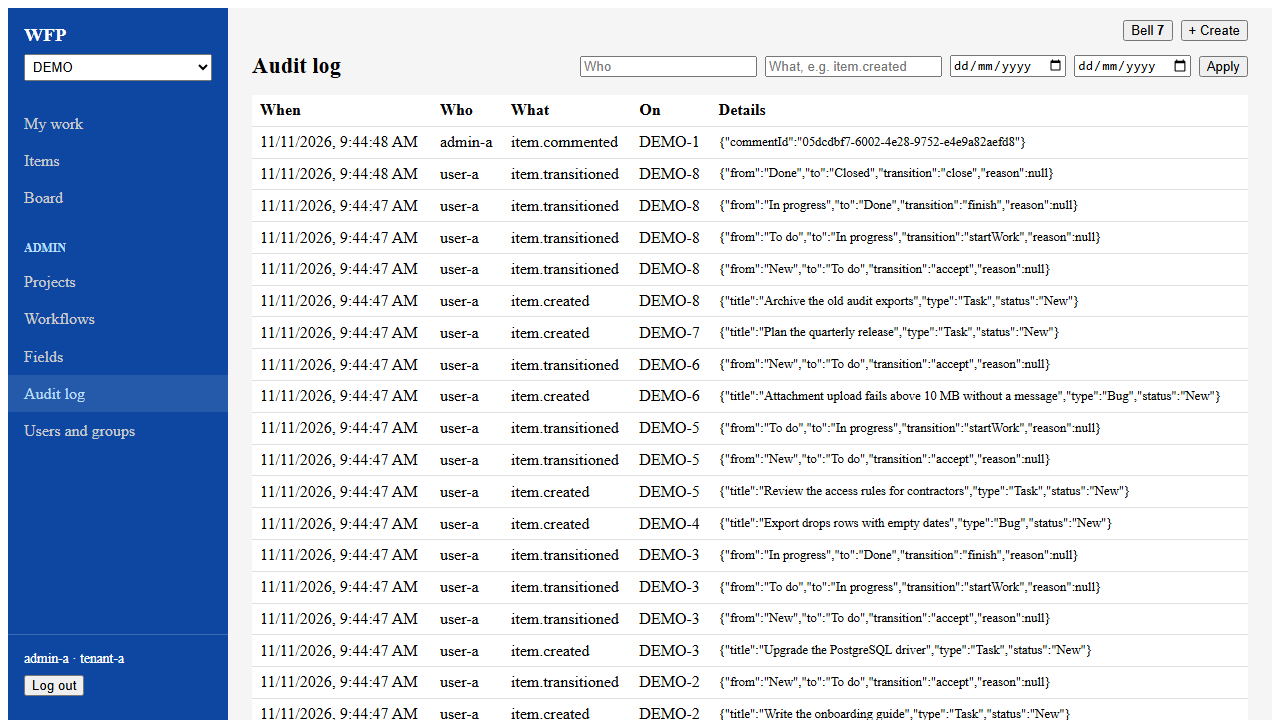
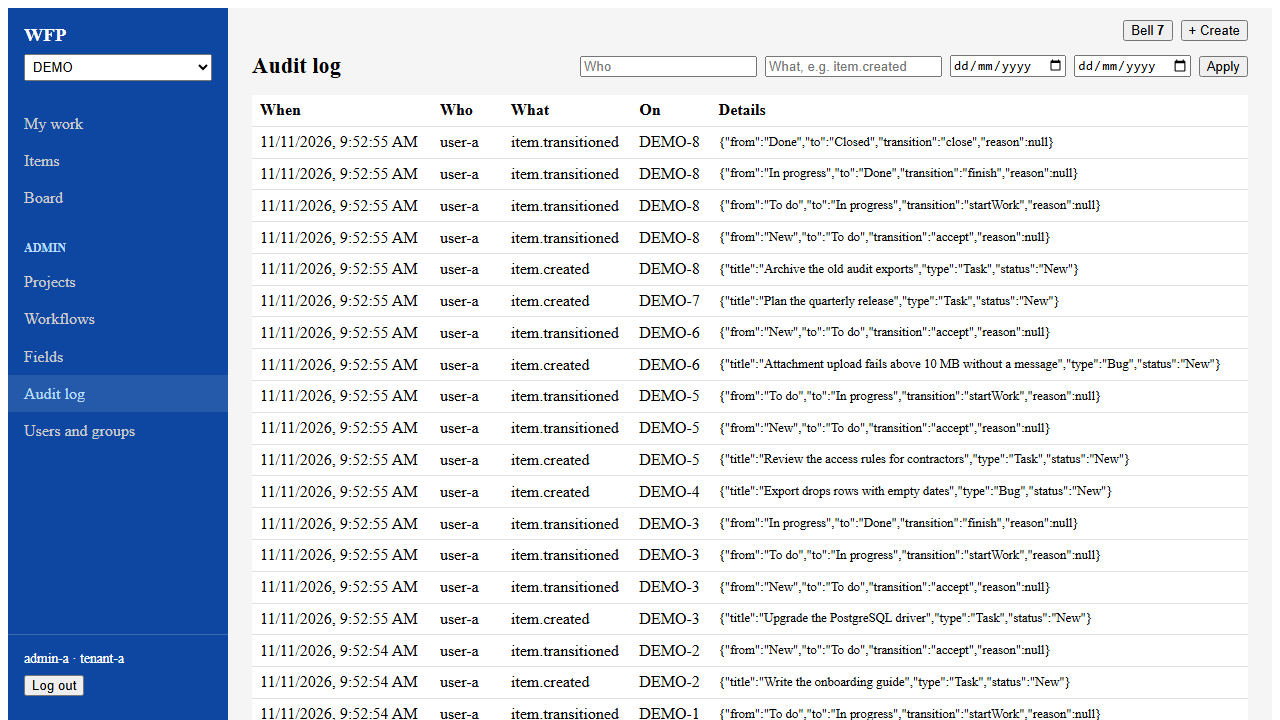
test(e2e): let a rerun finish demo data that stopped midway
Each step now checks for its own data (project, field, items by title)
instead of skipping everything once the project exists.

Claude-Session: https://claude.ai/code/session_01H6oLxLxcstwLfnykrvnywd

diff --git a/e2e/demo-data.setup.ts b/e2e/demo-data.setup.ts
@@ -8,7 +8,7 @@ const PROJECT = 'DEMO';
 const SAMPLE_WORKFLOW = fs.readFileSync(path.join(__dirname, 'samples', 'tracker-flow.bpmn20.xml'), 'utf-8');
 
 const ITEMS = [
-  { type: 'Bug', title: 'Login page loops after the session expires', priority: 'HIGH', assignee: 'user-a', severity: 'major', transitions: ['accept', 'startWork'] },
+  { type: 'Bug', title: 'Login page loops after the session expires', priority: 'HIGH', assignee: 'user-a', severity: 'major', comment: 'Reproduced on the staging stack. The refresh token is not renewed.', transitions: ['accept', 'startWork'] },
   { type: 'Task', title: 'Write the onboarding guide', priority: 'MEDIUM', assignee: 'user-a', transitions: ['accept'] },
   { type: 'Task', title: 'Upgrade the PostgreSQL driver', priority: 'LOW', assignee: 'admin-a', transitions: ['accept', 'startWork', 'finish'] },
   { type: 'Bug', title: 'Export drops rows with empty dates', priority: 'MEDIUM', assignee: 'user-a', severity: 'minor', transitions: [] },
@@ -44,30 +44,38 @@ setup('demo project with items', async ({ request }) => {
   }
 
   const projects: { key: string }[] = await admin.get('/projects');
-  if (projects.some((project) => project.key === PROJECT)) {
-    return;
+  if (!projects.some((project) => project.key === PROJECT)) {
+    await admin.post('/projects', {
+      key: PROJECT,
+      name: 'Demo project',
+      itemTypes: [
+        { name: 'Task', workflowKey: 'default' },
+        { name: 'Bug', workflowKey: 'default' },
+      ],
+    });
   }
-  await admin.post('/projects', {
-    key: PROJECT,
-    name: 'Demo project',
-    itemTypes: [
-      { name: 'Task', workflowKey: 'default' },
-      { name: 'Bug', workflowKey: 'default' },
-    ],
-  });
-  await admin.post('/fields/schemas', {
-    project: PROJECT,
-    itemTypes: ['Bug'],
-    fieldKey: 'severity',
-    label: 'Severity',
-    fieldType: 'DROPDOWN',
-    options: [
-      { label: 'Minor', value: 'minor', sortOrder: 0 },
-      { label: 'Major', value: 'major', sortOrder: 1 },
-    ],
-  });
 
-  for (const { type, title, priority, assignee, severity, transitions } of ITEMS) {
+  const fields: { fieldKey: string }[] = await admin.get(`/fields/schemas?project=${PROJECT}`);
+  if (!fields.some((field) => field.fieldKey === 'severity')) {
+    await admin.post('/fields/schemas', {
+      project: PROJECT,
+      itemTypes: ['Bug'],
+      fieldKey: 'severity',
+      label: 'Severity',
+      fieldType: 'DROPDOWN',
+      options: [
+        { label: 'Minor', value: 'minor', sortOrder: 0 },
+        { label: 'Major', value: 'major', sortOrder: 1 },
+      ],
+    });
+  }
+
+  const existing: { content: { title: string }[] } = await admin.get(`/items?project=${PROJECT}&size=100`);
+  const existingTitles = existing.content.map((item) => item.title);
+  for (const { type, title, priority, assignee, severity, comment, transitions } of ITEMS) {
+    if (existingTitles.includes(title)) {
+      continue;
+    }
     const item = await user.post('/items', {
       project: PROJECT,
       type,
@@ -77,11 +85,11 @@ setup('demo project with items', async ({ request }) => {
       description: 'Sample item created by the demo data script.',
       fields: severity ? { severity } : {},
     });
+    if (comment) {
+      await admin.post(`/items/${item.key}/comments`, { content: comment });
+    }
     for (const transitionId of transitions) {
       await user.post(`/items/${item.key}/transitions`, { transitionId });
     }
   }
-  await admin.post(`/items/${PROJECT}-1/comments`, {
-    content: 'Reproduced on the staging stack. The refresh token is not renewed.',
-  });
 });
